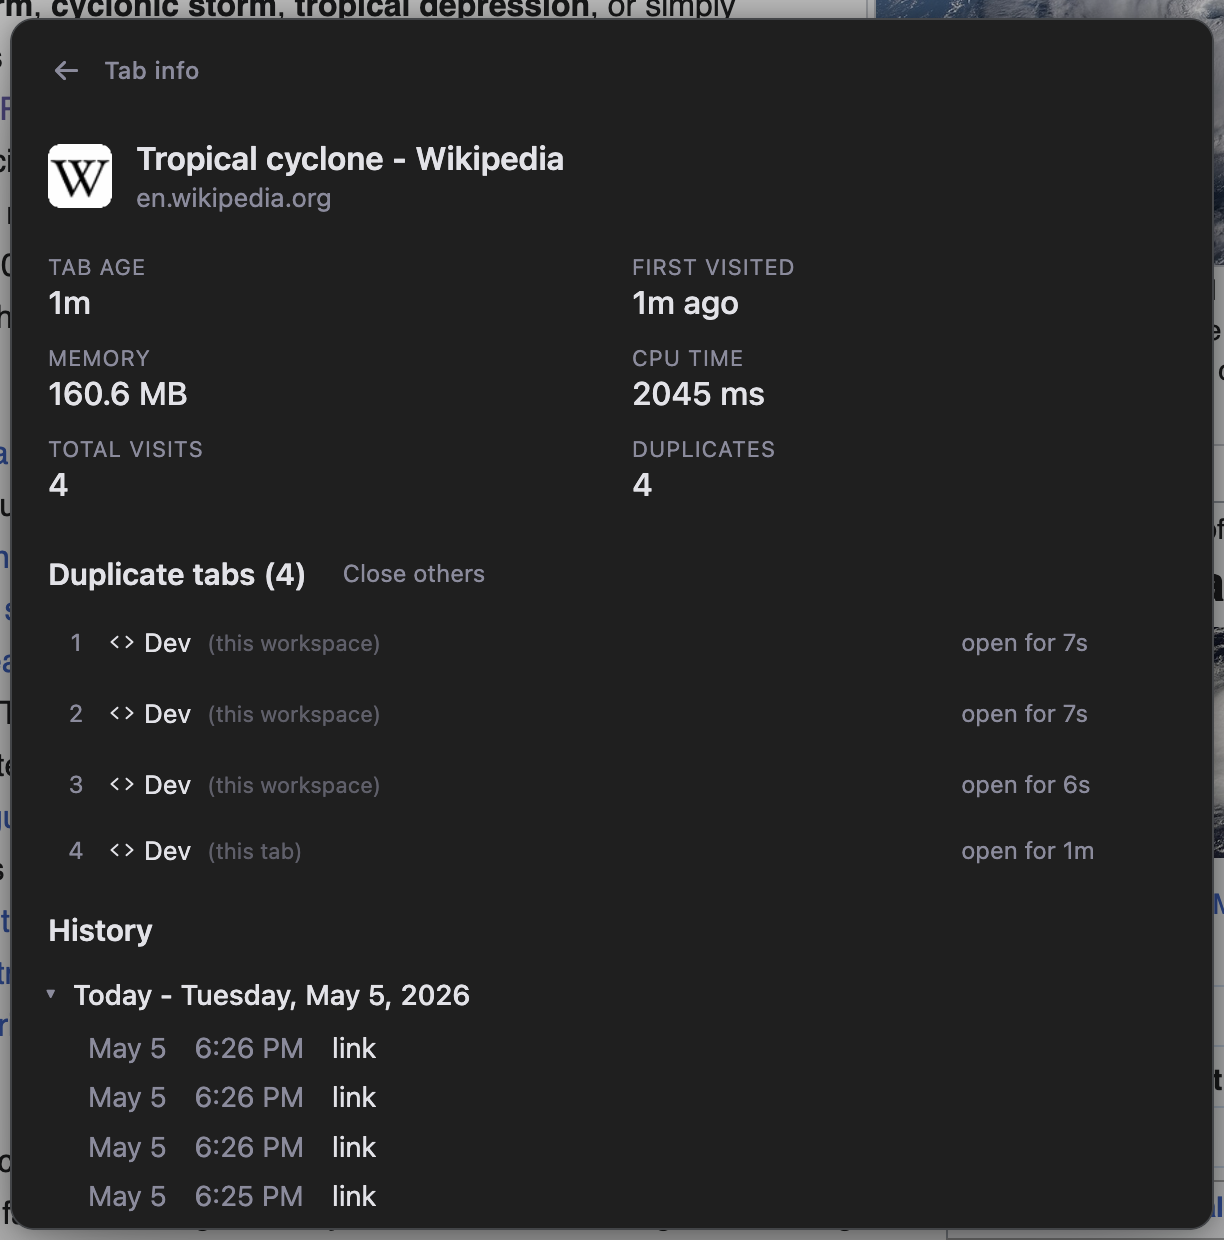
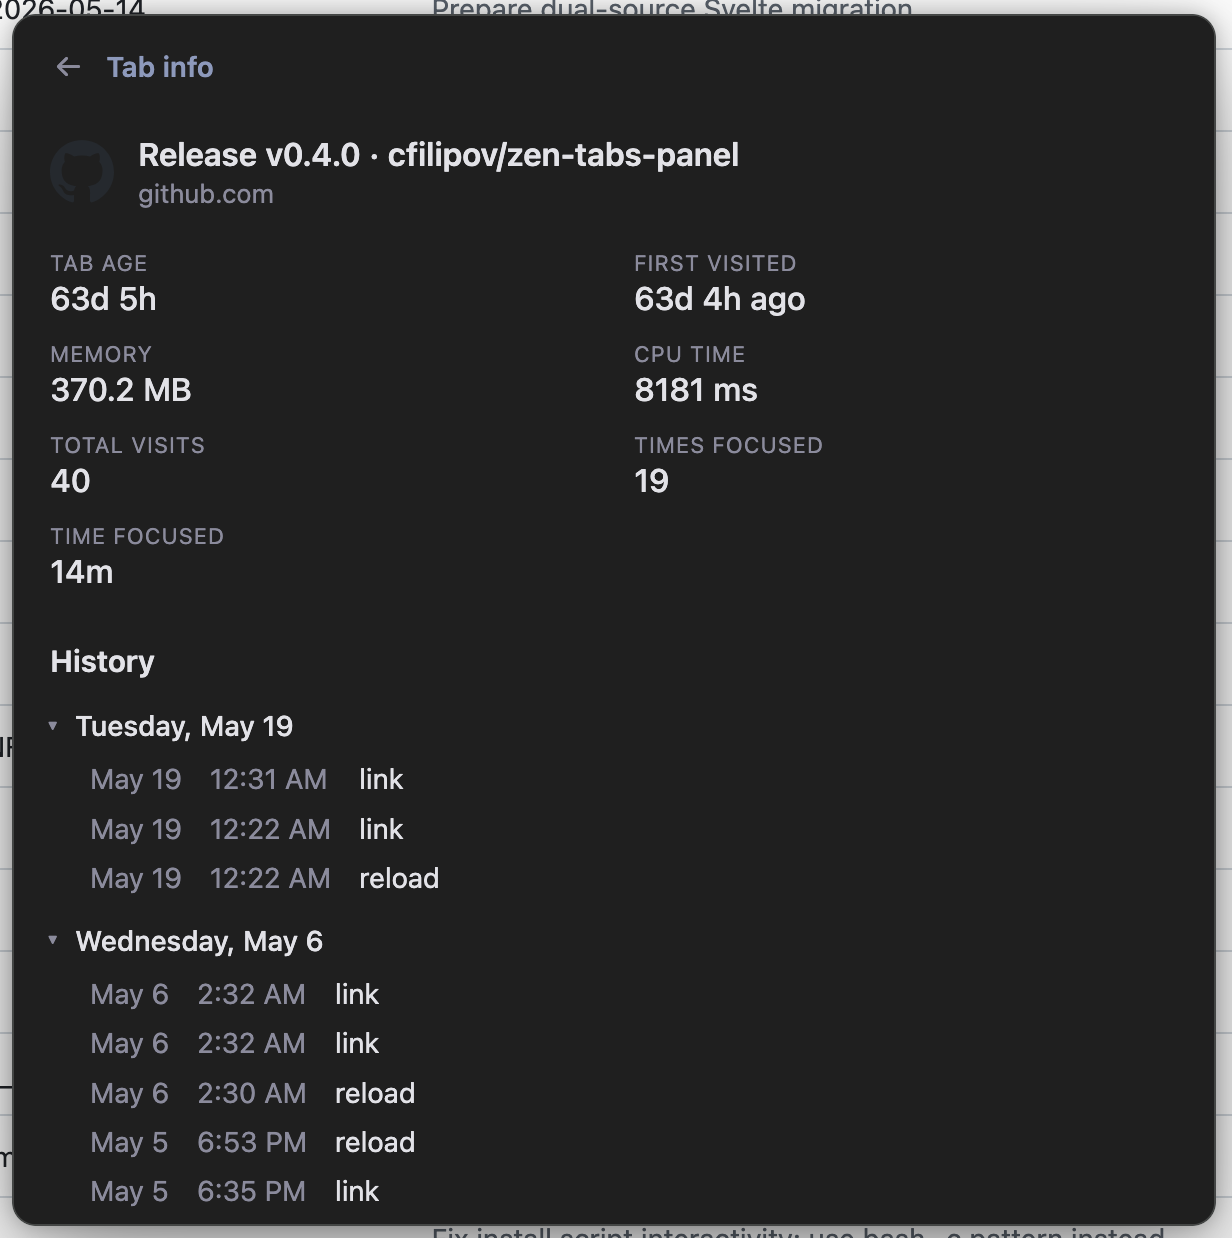
Refresh README screenshots
Update the README intro and screenshots for the 0.4.0 palette. Restore the actions pager slide animation when skip animations is disabled, with coverage for the pager class behavior.

diff --git a/src/popup/views/ActionsMenu.test.ts b/src/popup/views/ActionsMenu.test.ts
@@ -32,6 +32,28 @@ describe("ActionsMenu", () => {
     expect(page2?.textContent).toContain("⇧L");
   });
 
+  it("only suppresses page-slide animation when skip animations is enabled", () => {
+    const animated = render(ActionsMenu, {
+      props: {
+        sections: buildActionsMenuModel(),
+        currentPage: 2,
+      },
+    });
+
+    expect(animated.container.querySelector(".actions-pager")?.classList.contains("no-anim")).toBe(false);
+    animated.unmount();
+
+    const skipped = render(ActionsMenu, {
+      props: {
+        sections: buildActionsMenuModel(),
+        currentPage: 2,
+        skipAnimations: true,
+      },
+    });
+
+    expect(skipped.container.querySelector(".actions-pager")?.classList.contains("no-anim")).toBe(true);
+  });
+
   it("groups consecutive column sections into the vanilla actions grid", () => {
     const { container } = render(ActionsMenu, {
       props: {

diff --git a/src/popup/views/ActionsMenu.svelte b/src/popup/views/ActionsMenu.svelte
@@ -11,6 +11,7 @@
     currentPage?: number;
     extensions?: ExtensionRow[];
     workspaces?: WorkspaceRow[];
+    skipAnimations?: boolean;
     onactivate?: (item: ActionMenuItem) => void;
     onextension?: (extension: ExtensionRow) => void;
     onpreview?: (domId: string) => void;
@@ -89,6 +90,7 @@
     currentPage = 1,
     extensions = [],
     workspaces = [],
+    skipAnimations = false,
     onactivate,
     onextension,
     onpreview,
@@ -227,7 +229,7 @@
   </button>
 {/snippet}
 
-<div class="actions-pager no-anim" style={`transform: translateX(-${(currentPage - 1) * 100}%)`}>
+<div class="actions-pager" class:no-anim={skipAnimations} style={`transform: translateX(-${(currentPage - 1) * 100}%)`}>
   {#each pageModels as page (page.page)}
     <div class="actions-page" data-page={page.page}>
       {#each page.blocks as block (blockKey(block))}

diff --git a/src/popup/views/ViewHost.svelte b/src/popup/views/ViewHost.svelte
@@ -120,6 +120,7 @@
         currentPage={palette.currentPage}
         extensions={palette.actionExtensions}
         workspaces={palette.actionsWorkspaces}
+        {skipAnimations}
         onactivate={activateAction}
         onextension={openExtensionPopup}
         onpreview={(domId) => previewTabLike({ domId })}

diff --git a/README.md b/README.md
@@ -1,14 +1,23 @@
 # Zen Tabs Panel
 
-**Version 0.3.0** · Tested on Zen Browser 1.19.11b (Firefox 150.0.1)
+**Version 0.4.0** · Tested on Zen Browser 1.19.11b (Firefox 150.0.1)
 
 A keyboard-driven tab management extension for [Zen Browser](https://zen-browser.app/) with a command palette UI and optional companion Zen Mods.
 
 > [!CAUTION]
 > This extension uses internal Zen APIs which could change and break with any Zen update. Use at your own risk.
 
-![Screenshot](screenshot.png)
-![Tab Info](screenshot-tabinfo.png)
+Zen Tabs Panel gives you keyboard access to far more tab and workspace actions than Zen exposes by default. It is built around one leader shortcut: `⌘.` on macOS, or `⌃.` on Windows/Linux. After pressing it, you type a sequence of follow-up keys, one after another, instead of holding a complicated shortcut all at once. For example, `⌘.` then `R` opens recent tabs; `⌘.` then `R` then `2` switches to the second most recent tab. These sequences mirror the same keys you would press when navigating the menu visually. If you type quickly, the action runs immediately without showing the menu. If you pause, the menu appears and shows the available options, helping you find the right key when you forget. Over time, common actions become muscle memory while less-used tools remain easy to discover. The palette is designed for fast keyboard use, but it is also fully mouse-friendly and can be navigated with the arrow keys.
+
+![Main menu](screenshot.png)
+
+![Main menu page 2](screenshot-actions-page-2.png)
+
+![Reorder tabs menu](screenshot-reorder-tabs.png)
+
+![Close and select menu](screenshot-close-select.png)
+
+![Tab info view](screenshot-tabinfo.png)
 
 ## Features
 